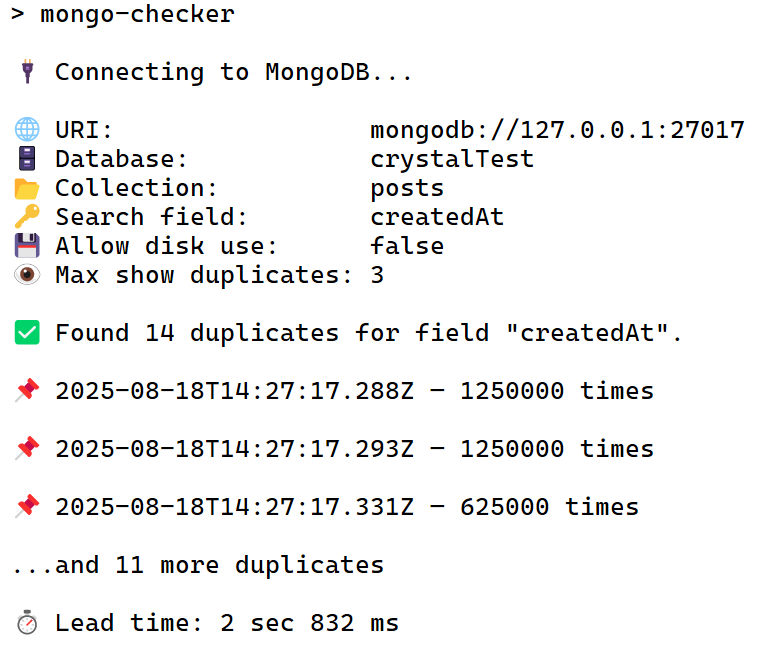
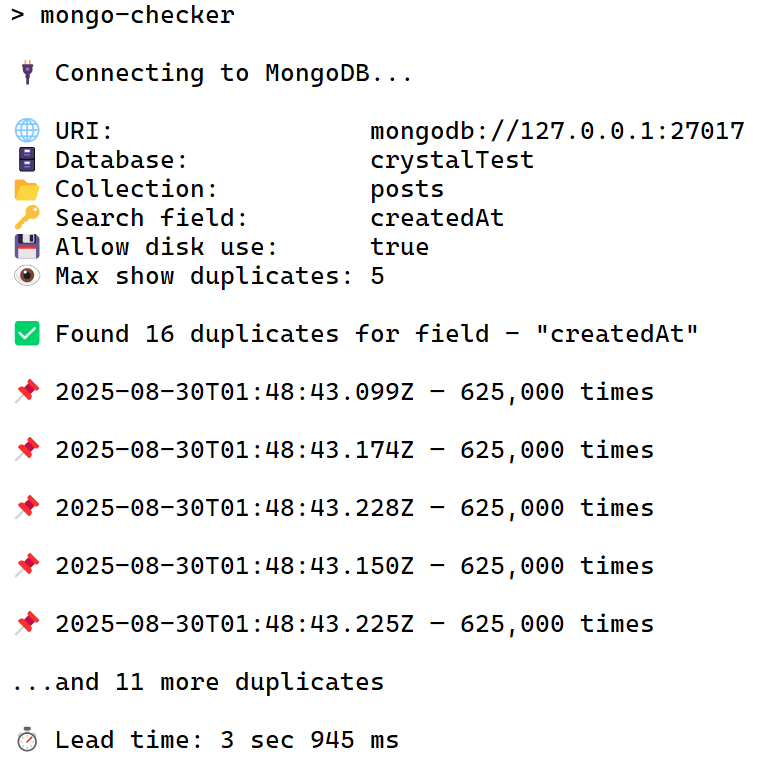
commit

diff --git a/config example/mongo-checker.config.js b/config example/mongo-checker.config.js
@@ -2,7 +2,7 @@ export default {
   uri: "mongodb://127.0.0.1:27017",
   db: "crystalTest",
   collection: "posts",
-  field: "user",
+  field: "createdAt",
   allowDiskUse: true,
-  maxDuplicatesToShow: 200
+  maxDuplicatesToShow: 5
 };
